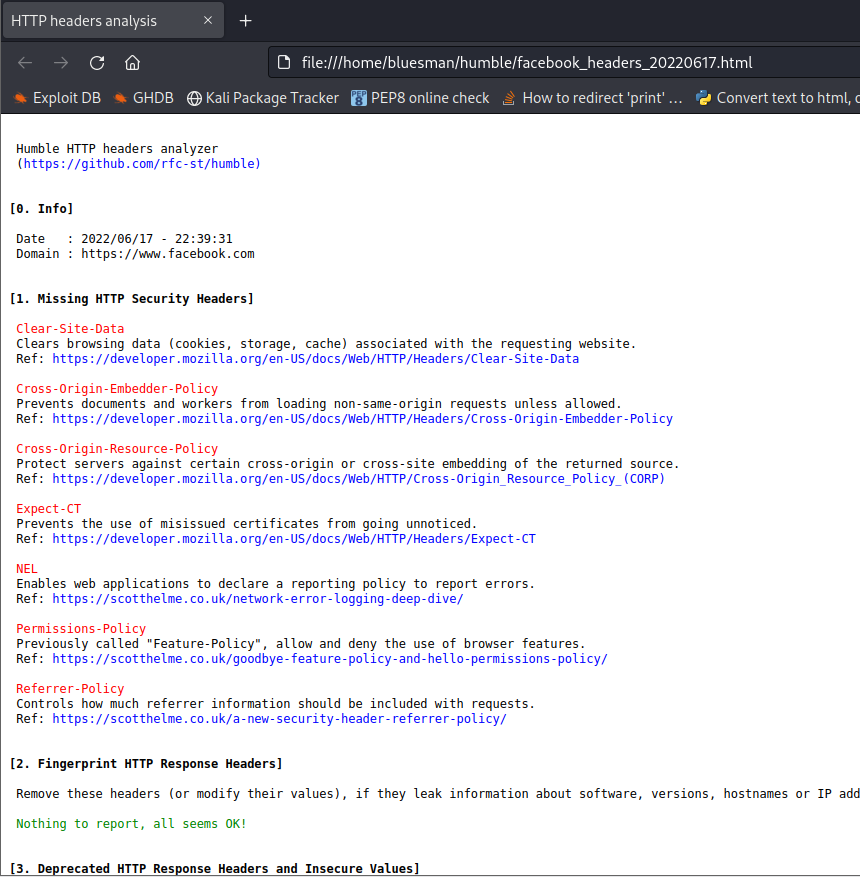
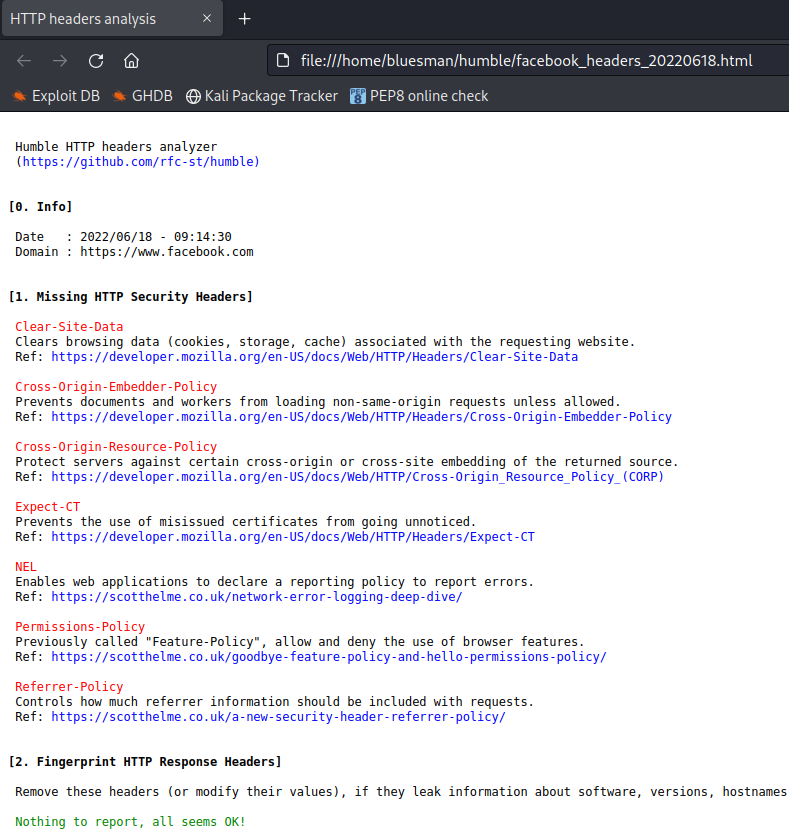
Update samples and screenshots.

Changed region(s): [[0.0, 0.0619, 1.0, 1.0], [0.0, 0.0, 0.3042, 0.0619]]

diff --git a/samples/facebook_headers_20220618.html b/samples/facebook_headers_20220618.html
@@ -1,0 +1,113 @@
+<!DOCTYPE html><html lang="en"><head><meta charset="utf-8"/><title>HTTP headers analysis</title><style>pre {overflow-x: auto;white-space: pre-wrap;white-space: -moz-pre-wrap;white-space: -pre-wrap;white-space: -o-pre-wrap;word-wrap: break-word; font-size: medium;}a {color: blue; text-decoration: none;} .ok {color: green;}.header {color: #660033;} .ko {color: red;} </style></head><body><pre>
+
+ Humble HTTP headers analyzer
+ (<a href="https://github.com/rfc-st/humble">https://github.com/rfc-st/humble)
+</a>
+
+<strong>[0. Info]
+</strong>
+ Date   : 2022/06/18 - 09:14:30
+ Domain : https://www.facebook.com
+
+
+<strong>[1. Missing HTTP Security Headers]
+</strong>
+<span class="ko"> Clear-Site-Data
+</span> Clears browsing data (cookies, storage, cache) associated with the requesting website.
+ Ref: <a href="https://developer.mozilla.org/en-US/docs/Web/HTTP/Headers/Clear-Site-Data
+">https://developer.mozilla.org/en-US/docs/Web/HTTP/Headers/Clear-Site-Data
+</a>
+<span class="ko"> Cross-Origin-Embedder-Policy
+</span> Prevents documents and workers from loading non-same-origin requests unless allowed.
+ Ref: <a href="https://developer.mozilla.org/en-US/docs/Web/HTTP/Headers/Cross-Origin-Embedder-Policy
+">https://developer.mozilla.org/en-US/docs/Web/HTTP/Headers/Cross-Origin-Embedder-Policy
+</a>
+<span class="ko"> Cross-Origin-Resource-Policy
+</span> Protect servers against certain cross-origin or cross-site embedding of the returned source.
+ Ref: <a href="https://developer.mozilla.org/en-US/docs/Web/HTTP/Cross-Origin_Resource_Policy_(CORP)
+">https://developer.mozilla.org/en-US/docs/Web/HTTP/Cross-Origin_Resource_Policy_(CORP)
+</a>
+<span class="ko"> Expect-CT
+</span> Prevents the use of misissued certificates from going unnoticed.
+ Ref: <a href="https://developer.mozilla.org/en-US/docs/Web/HTTP/Headers/Expect-CT
+">https://developer.mozilla.org/en-US/docs/Web/HTTP/Headers/Expect-CT
+</a>
+<span class="ko"> NEL
+</span> Enables web applications to declare a reporting policy to report errors.
+ Ref: <a href="https://scotthelme.co.uk/network-error-logging-deep-dive/
+">https://scotthelme.co.uk/network-error-logging-deep-dive/
+</a>
+<span class="ko"> Permissions-Policy
+</span> Previously called "Feature-Policy", allow and deny the use of browser features.
+ Ref: <a href="https://scotthelme.co.uk/goodbye-feature-policy-and-hello-permissions-policy/
+">https://scotthelme.co.uk/goodbye-feature-policy-and-hello-permissions-policy/
+</a>
+<span class="ko"> Referrer-Policy
+</span> Controls how much referrer information should be included with requests.
+ Ref: <a href="https://scotthelme.co.uk/a-new-security-header-referrer-policy/
+">https://scotthelme.co.uk/a-new-security-header-referrer-policy/
+</a>
+
+<strong>[2. Fingerprint HTTP Response Headers]
+</strong>
+ Remove these headers (or modify their values), if they leak information about software, versions, hostnames or IP addresses:
+
+<span class="ok"> Nothing to report, all seems OK!
+</span>
+
+<strong>[3. Deprecated HTTP Response Headers and Insecure Values]
+</strong>
+ The following headers are deprecated or their values may be considered unsafe:
+
+<span class="ko"> Content-Security-Policy
+</span> Remove 'unsafe-inline' and/or 'unsafe-eval' whenever possible, as they negate most of the security benefits provided by this header.
+ Ref: <a href="https://csper.io/blog/no-more-unsafe-inline
+">https://csper.io/blog/no-more-unsafe-inline
+</a> Ref: <a href="https://developer.mozilla.org/en-US/docs/Web/JavaScript/Reference/Global_Objects/eval
+">https://developer.mozilla.org/en-US/docs/Web/JavaScript/Reference/Global_Objects/eval
+</a>
+<span class="ko"> Content-Security-Policy
+</span> Avoid using deprecated directives: 'block-all-mixed-content', 'plugin-types', 'referrer' or 'report-uri'.
+ Ref: <a href="https://developer.mozilla.org/en-US/docs/Web/HTTP/Headers/Content-Security-Policy#deprecated_directives
+">https://developer.mozilla.org/en-US/docs/Web/HTTP/Headers/Content-Security-Policy#deprecated_directives
+</a> Ref: <a href="https://developer.mozilla.org/en-US/docs/Web/HTTP/Headers/Content-Security-Policy#reporting_directives
+">https://developer.mozilla.org/en-US/docs/Web/HTTP/Headers/Content-Security-Policy#reporting_directives
+</a>
+<span class="ko"> Strict-Transport-Security
+</span> Add 'includeSubDomains' and define 'max-age' equal or greater than 31536000 (1 year).
+
+
+<strong>[4. Empty HTTP Response Headers Values]
+</strong>
+ The following headers have no value (could be equivalent to as if they were not enabled):
+
+<span class="ok"> Nothing to report, all seems OK!
+</span>
+
+<strong>[5. Browser Compatibility for Enabled HTTP Security Headers]
+</strong>
+<span class="header"> Cache-Control</span>: <a href=https://caniuse.com/?search=Cache-Control
+">https://caniuse.com/?search=Cache-Control
+</a><span class="header"> Content-Security-Policy</span>: <a href=https://caniuse.com/?search=Content-Security-Policy
+">https://caniuse.com/?search=Content-Security-Policy
+</a><span class="header"> Cross-Origin-Opener-Policy</span>: <a href=https://caniuse.com/?search=Cross-Origin-Opener-Policy
+">https://caniuse.com/?search=Cross-Origin-Opener-Policy
+</a><span class="header"> Pragma</span>: <a href=https://caniuse.com/?search=Pragma
+">https://caniuse.com/?search=Pragma
+</a><span class="header"> Strict-Transport-Security</span>: <a href=https://caniuse.com/?search=Strict-Transport-Security
+">https://caniuse.com/?search=Strict-Transport-Security
+</a><span class="header"> X-Content-Type-Options</span>: <a href=https://caniuse.com/?search=X-Content-Type-Options
+">https://caniuse.com/?search=X-Content-Type-Options
+</a><span class="header"> X-Frame-Options</span>: <a href=https://caniuse.com/?search=X-Frame-Options
+">https://caniuse.com/?search=X-Frame-Options
+</a>
+
+.:
+
+ Analysis done in 0.47 seconds!.
+
+ Advice: check the deprecated headers/insecure and then the missing headers.
+
+.:
+
+</pre></body></html>

diff --git a/README.md b/README.md
@@ -72,7 +72,7 @@ HTTP Headers Analyzer<br />
 <img src="https://github.com/rfc-st/humble/blob/master/screenshots/humble_pdf_s.PNG" alt="Export analysis to PDF" width=70% height=70%>
 </p>
 <br />
-.: Analysis exported to HTML. <a href="https://htmlpreview.github.io/?https://github.com/rfc-st/humble/blob/master/samples/facebook_headers_20220617.html">Example.</a><br />
+.: Analysis exported to HTML. <a href="https://htmlpreview.github.io/?https://github.com/rfc-st/humble/blob/master/samples/facebook_headers_20220618.html">Example.</a><br />
 <p></p>
 <p align="center">
 <img src="https://github.com/rfc-st/humble/blob/master/screenshots/humble_html_s.PNG" alt="Export analysis to HTML" width=70% height=70%>
